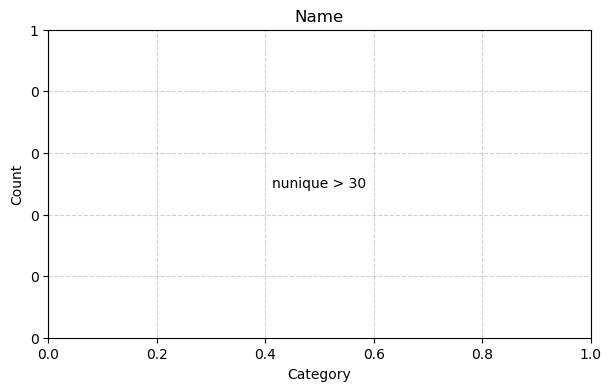
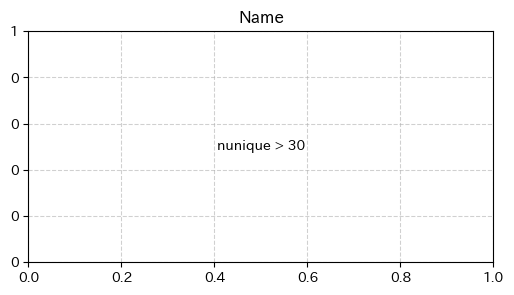
ベース作成

diff --git a/script/my_analys.py b/script/my_analys.py
@@ -4,6 +4,7 @@ import sys
 import numpy as np
 import pandas as pd
 import matplotlib.pyplot as plt
+import japanize_matplotlib
 import openpyxl
 from openpyxl.formatting.rule import DataBarRule
 from pathlib import Path
@@ -16,6 +17,7 @@ import edit_excel as ee
 
 # 各種設定
 input_dir = Path('../data/')
+img_dir = Path('../output/img/')
 output_dir = Path('../output/')
 
 def main():
@@ -62,6 +64,7 @@ def main():
         # ワークブックの保存
         wb.save(output_dir/(file_name.split('.')[0]+'.xlsx'))
         print('# {} has saved.'.format(file_name.split('.')[0]+'.xlsx'))
+        
         
 def read_data(file_name : str):
     '''
@@ -144,13 +147,19 @@ def create_first_sheet(wb, file_name:str, df:pd.DataFrame):
     for i, c in enumerate(['No.', '論理名', '物理名', '解釈', '備考']):
         ee.set_cell(ws, cell=(4, 2+i), value=c, style='style_header')
     
+    f_name = file_name.split('.')[0]+'.xlsx'
     ## インデックス
     for i, c in enumerate(df.columns):
         ee.set_cell(ws, cell=(5+i, 2), value=i, style='style_header')
-        ee.set_cell(ws, cell=(5+i, 3), value=c, style='style_grid')
+        ee.set_cell(ws, cell=(5+i, 3), value=c, style='style_summary')
         ee.set_cell(ws, cell=(5+i, 4), style='style_grid')
         ee.set_cell(ws, cell=(5+i, 5), style='style_grid')
         ee.set_cell(ws, cell=(5+i, 6), style='style_grid')
+        # ハイパーリンク
+        ws[ee.get_letter(5+i, 3)].hyperlink = f'{f_name}#{c}!A1'
+        
+    # ウィンドウ枠の固定
+    ws.freeze_panes = 'C5'
         
     # 幅、高さ調整
     ws.row_dimensions[1].height = 5
@@ -234,9 +243,15 @@ def create_data_show_sheet(wb, df:pd.DataFrame):
     ee.set_cell(ws, cell=(2, 2), value='データ例', style='style_title')
     
     tmp1 = df.head(20)
-    tmp2 = pd.DataFrame({'...' : ['...'] * len(df.columns)}, columns=df.columns)
-    tmp3 = df.tail(20)
-    ee.put_dataframe(ws, pd.concat([tmp1, tmp2, tmp3]), start=(3,2))
+    tmp2 = df.tail(20)
+    ee.put_dataframe(ws, tmp1, start=(3,2))
+    ee.put_dataframe(ws, tmp2, start=(25,2))
+    
+    # 高さ幅調整
+    ee.adjust_width(ws)
+    ws.freeze_panes = 'A4'
+    ws.row_dimensions[1].height = 5
+    ws.column_dimensions['A'].width = 1
     
 def create_column_sheet(wb, d:pd.Series):
     '''
@@ -250,7 +265,7 @@ def create_column_sheet(wb, d:pd.Series):
         対象のカラムのシリーズ
     
     '''
-    # カラムごとのページ
+    # シート作成
     ws = wb.create_sheet(title=d.name)
     ws.sheet_properties.tabColor = 'f0e68c'
     
@@ -270,42 +285,30 @@ def create_column_sheet(wb, d:pd.Series):
         ee.set_cell(ws, cell=(3, 7), value='なし', style='style_grid')
     
     # 可視化
-    fig = plt.figure(figsize=(7,4))
-    ax = fig.add_subplot(111)
-    plt.title(d.name)
+    
     if d.dtype == object:
         if d.nunique()<=30:
             # 棒グラフ、帯グラフ
-            tmp = d.fillna('欠損').value_counts()
-            plt.bar(tmp.index, tmp.values, alpha=0.6)
-            plt.xticks(rotation=90)
+            fig = bar_plot(d)
         else:
-            plt.text(0.5, 0.5, 'nunique > 30', ha='center', va='center')
-        plt.ylabel('Count')
-        plt.xlabel('Category')
+            # ﾕﾆｰｸ数過多
+            fig = too_much_nuniques(d)
+        
     else :
         if d.nunique()<=30:
-            # 棒グラフ、帯グラフ
-            tmp = d.astype(str).fillna('欠損').value_counts()
-            plt.bar(tmp.index, tmp.values, alpha=0.6)
-            plt.ylabel('Count')
-            plt.xlabel('Category')
-            plt.xticks(rotation=90)
+            # 棒グラフ
+            fig = bar_plot(d)
         else:
             # ヒストグラム
-            plt.hist(d, alpha=0.6, bins=50)
-            plt.ylabel('Frequency')
-            plt.xlabel('value')
-    plt.grid(linestyle='--', alpha=0.6)
-    ax.yaxis.set_major_formatter(plt.FuncFormatter(lambda x, loc: "{:,}".format(int(x))))
+            fig = hist_plot(d)
     
     ## fig貼り付け
-    ee.put_img(ws, fig, d.name, (4,2))
+    ee.put_img(ws, fig, d.name, (4,2), img_dir)
     ee.set_style(ws.cell(4,2), 'style_grid')
-    ws.merge_cells('B4:G25')
+    ws.merge_cells('B4:G22')
     
     # 欠損率可視化
-    fig = plt.figure(figsize=(4.4,4.4))
+    fig = plt.figure(figsize=(3.5, 3.5))
     plt.title('null component')
     plt.pie(
         [len(d)-d.isnull().sum(), d.isnull().sum()],
@@ -315,19 +318,55 @@ def create_column_sheet(wb, d:pd.Series):
         autopct="%1.3f%%",
         wedgeprops={'linewidth': 1, 'edgecolor':"white"}
     )
-    plt.legend()
+    plt.legend(frameon=False, loc='upper left', handlelength=1, handletextpad=0.2, labelspacing=0.2)
     
     ## fig貼り付け
-    ee.put_img(ws, fig, f'{d.name}_null', (4,8))
+    ee.put_img(ws, fig, f'{d.name}_null', (4,8), img_dir)
     ee.set_style(ws.cell(4,8), 'style_grid')
-    ws.merge_cells('H4:L25')
+    ws.merge_cells('H4:K22')
     
     # 幅、高さ調整
     ws.row_dimensions[1].height = 5
     ws.column_dimensions['A'].width = 1
-    ws.column_dimensions['C'].width = 21
-    ws.column_dimensions['E'].width = 21
+    ws.column_dimensions['C'].width = 19
+    ws.column_dimensions['E'].width = 19
     
+def bar_plot(d):
+    fig = plt.figure(figsize=(6,3))
+    ax = fig.add_subplot(111)
+    ax.set_title(d.name)
+    tmp = d.astype(str).fillna('欠損').value_counts().sort_index()
+    ax.bar(tmp.index, tmp.values, alpha=0.6)
+    ax.set_ylabel('Count')
+    ax.set_xlabel('Category')
+    plt.xticks(rotation=90)
+    ax.set_ylabel('Count')
+    ax.set_xlabel('Category')
+    ax.grid(linestyle='--', alpha=0.6)
+    ax.yaxis.set_major_formatter(plt.FuncFormatter(lambda x, loc: "{:,}".format(int(x))))
+    return fig
+
+def hist_plot(d):
+    fig = plt.figure(figsize=(6,3))
+    ax = fig.add_subplot(111)
+    ax.hist(d, alpha=0.6, bins=50)
+    ax.set_ylabel('Frequency')
+    ax.set_xlabel('value')
+    ax.grid(linestyle='--', alpha=0.6)
+    ax.yaxis.set_major_formatter(plt.FuncFormatter(lambda x, loc: "{:,}".format(int(x))))
+    return fig
+
+def too_much_nuniques(d):
+    fig = plt.figure(figsize=(6,3))
+    ax = fig.add_subplot(111)
+    ax.set_title(d.name)
+    ax.text(0.5, 0.5, 'nunique > 30', ha='center', va='center')
+    ax.grid(linestyle='--', alpha=0.6)
+    ax.yaxis.set_major_formatter(plt.FuncFormatter(lambda x, loc: "{:,}".format(int(x))))
+    return fig
     
 if __name__ == "__main__":
+    '''
+    main関数実行
+    '''
     main()

diff --git a/script/module/edit_excel.py b/script/module/edit_excel.py
@@ -5,14 +5,32 @@ from openpyxl.utils import get_column_letter
 import excel_style
 from pathlib import Path
 import math
+from openpyxl.styles import PatternFill, Border, Side, Alignment, Protection, Font
 
 # styleの設定
 def set_style(cell, s):
+    '''
+    wsのcellに対してstyleの設定を行う。
+    
+    Paramaters
+    ----------
+    cell : openpyxl.ws.cell
+        設定対象のセル
+    s : str
+        styleを表す文字列
+        styleに関してはexcel_style.pyに記載
+    
+    '''
     cell.font = excel_style.style[s][0]
     cell.fill = excel_style.style[s][1]
     cell.border = excel_style.style[s][2]
     cell.alignment = excel_style.style[s][3]
-
+    
+# 値とstyleを設定
+def set_cell(ws, cell:tuple, value=None, style='normal'):
+    ws.cell(cell[0], cell[1]).value = value
+    set_style(ws.cell(cell[0], cell[1]), style)
+    
 # データフレームの挿入
 def put_dataframe(ws, df, start:tuple, mode='normal'):
     # 左上のセル
@@ -29,7 +47,7 @@ def put_dataframe(ws, df, start:tuple, mode='normal'):
     # 値代入
     for i in range(df.shape[0]):
         for j in range(df.shape[1]):
-            if math.isnan(df.iat[i,j]):
+            if df.isnull().iat[i,j]:
                 if mode == 'describe':
                     set_cell(ws, cell=(start[0]+1+i, start[1]+1+j), value='-', style='style_grid')
                 else :
@@ -58,13 +76,8 @@ def get_letter(r, c):
     return openpyxl.utils.get_column_letter(c)+str(r)
             
 # 画像貼り付け
-def put_img(ws, fig, c, start:tuple):
-    img_dir = Path('../output/img/')
+def put_img(ws, fig, c, start:tuple, img_dir):
     fig.savefig(img_dir/f'{c}_fig.png', transparent=True, bbox_inches='tight')
     img = openpyxl.drawing.image.Image(img_dir/f'{c}_fig.png')
     ws.add_image(img, get_letter(start[0], start[1]))
     
-# 値とstyleを設定
-def set_cell(ws, cell:tuple, value=None, style='normal'):
-    ws.cell(cell[0], cell[1]).value = value
-    set_style(ws.cell(cell[0], cell[1]), style)

diff --git a/script/module/excel_style.py b/script/module/excel_style.py
@@ -1,3 +1,15 @@
+'''
+openpyxlを用いてstyleを設定する。
+edit_excel.pyのset_style()関数で使用する。
+
+・Font
+・PatternFill
+・Border
+・Alignment
+
+に関して調整を行う。
+'''
+
 from openpyxl.styles import PatternFill, Border, Side, Alignment, Protection, Font
 
 style = {
@@ -57,6 +69,35 @@ style = {
             wrap_text = False
         )
     ],
+    
+    # サマリ
+    'style_summary' : [
+        Font(
+            bold = False,
+            underline='single',
+            color = '1e90ff'
+        ),
+        PatternFill(
+            'solid',
+            fgColor='ffffff'
+        ),
+        Border(
+            left=Side(border_style='thin',
+                       color='000000'),
+            right=Side(border_style='thin',
+                       color='000000'),
+            top=Side(border_style='thin',
+                       color='000000'),
+            bottom=Side(border_style='thin',
+                       color='000000')
+        ),
+        Alignment(
+            horizontal = 'center', 
+            vertical = 'center',
+            wrap_text = False
+        )
+    ],
+    
     # 表
     'style_grid' : [
         Font(
@@ -84,6 +125,7 @@ style = {
             wrap_text = False
         )
     ],
+    
     # 画像
     'style_img' : [
         Font(
